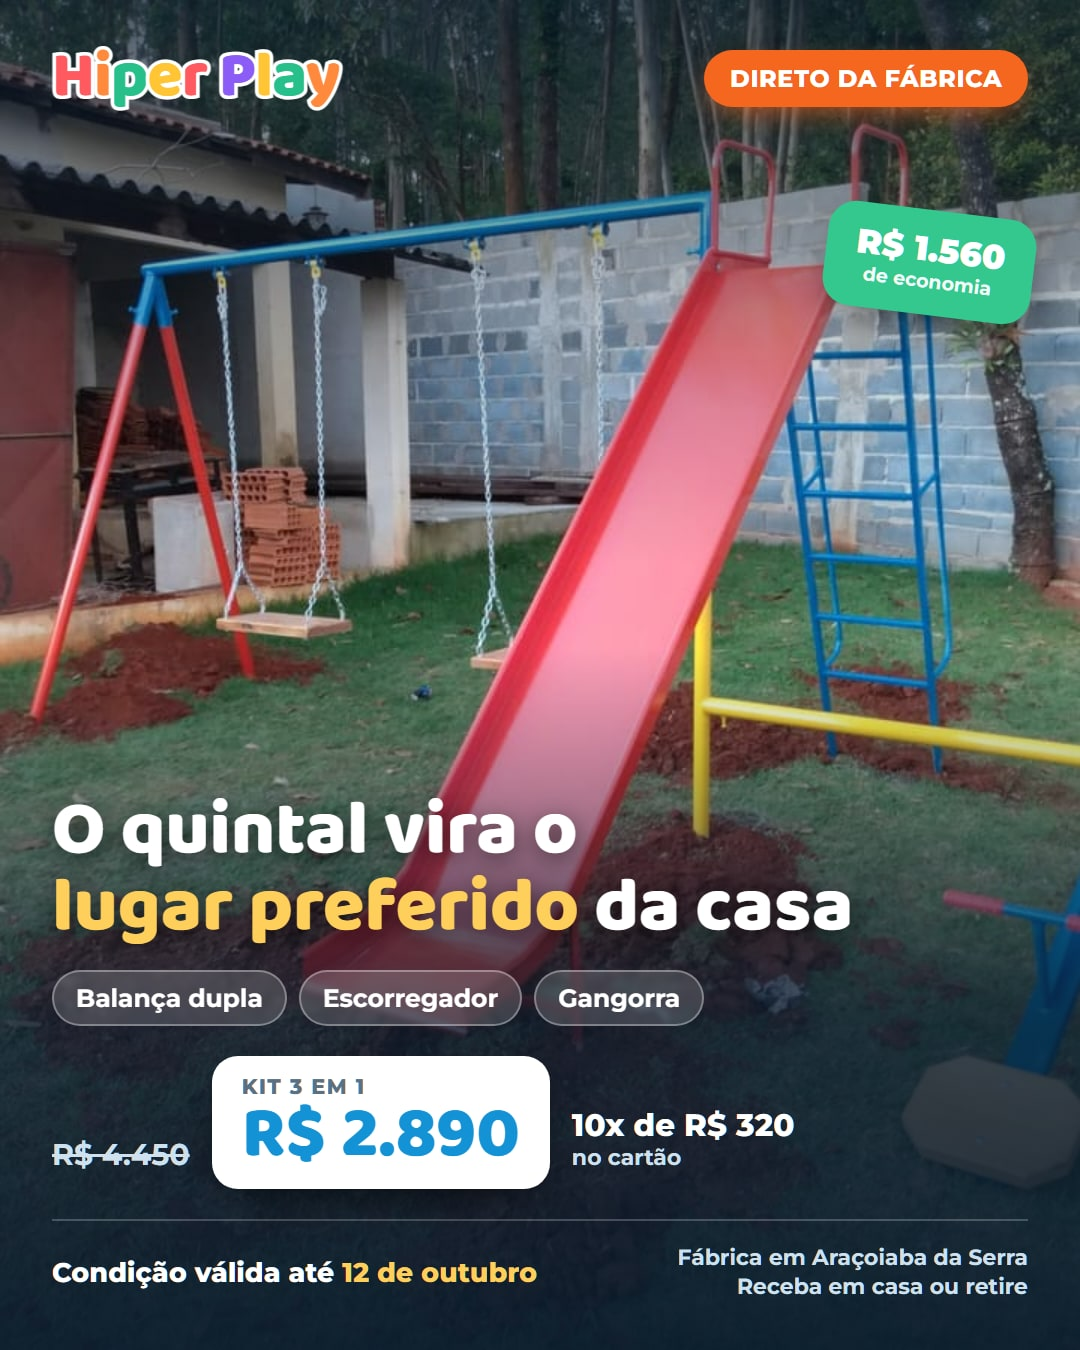
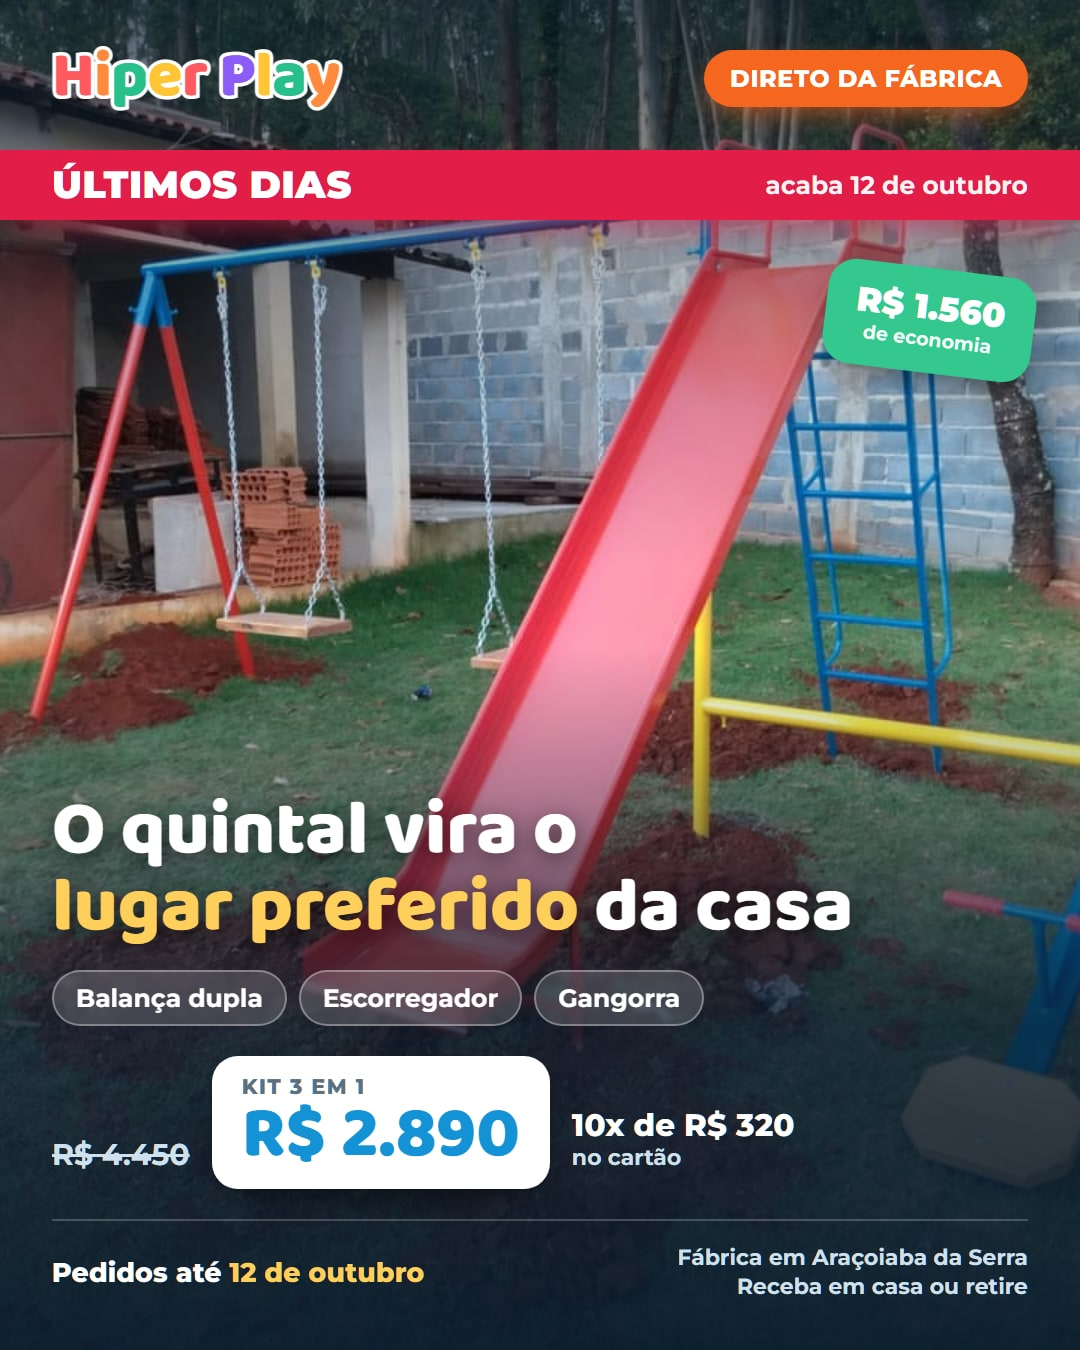
Kit 3 em 1: barra fixa no celular, contagem regressiva e Ref curta (#16)
A campanha de setembro mostrou onde o funil quebra: de 1.641 visitas na
landing, apenas 48 clicaram para falar no WhatsApp (2,9%), e metade desses
nem chegou a enviar a mensagem. O anuncio entregou bem (CTR 2,71%, CPC de
R$ 0,16); a pagina e que nao converte visita em conversa.

Tres mudancas, todas no ponto onde o dado aponta:

1. Barra fixa no celular, no lugar do circulo de 56px. O circulo passava
   despercebido. A barra mantem preco, prazo e as duas acoes (falar e
   calcular frete) sempre visiveis, sem depender de rolagem. No desktop o
   circulo continua, que la o problema nao existe.

2. Contagem regressiva ate 12/10 no topo, no bloco de preco e na barra.
   Conta por dia de calendario, nao por hora, senao "faltam 4 dias" virava
   "3" no meio da tarde. Depois da data, deixa de prometer prazo.

3. Mensagem pre-preenchida mais curta: so "Ref: HP-KIT3-XXXXXX" no lugar de
   "Origem: anuncio Kit 3 em 1 - Ref: ...". O texto longo parecia
   rastreamento e e a suspeita principal dos 24 cliques que abriram o
   WhatsApp e nao enviaram. O produto ja vai no corpo da mensagem, entao a
   SARAH nao perde contexto, e o padrao da Ref que o webhook le nao muda.

Criativo do anuncio ganhou tarja "ULTIMOS DIAS - acaba 12 de outubro". O
anterior rodou 79 mil impressoes e saturou: o CTR caiu de 3,66% para 1,89%
em uma semana, com frequencia em 1,75.

Changed region(s): [[0.0, 0.0933, 1.0, 0.3111], [0.0306, 0.9333, 0.4889, 0.9644]]

diff --git a/kit3em1/index.html b/kit3em1/index.html
@@ -40,6 +40,21 @@
   .floaty{animation:floaty 3.5s ease-in-out infinite}
   .nuvem,.sticker{position:absolute}
   .wfloat{position:fixed;right:18px;bottom:18px;z-index:70;box-shadow:0 14px 30px -10px rgba(37,211,102,.7)}
+  /* Barra fixa no celular. O circulo de 56px passava despercebido: de 1.641 visitas
+     na campanha de setembro, so 48 chegaram ao WhatsApp (2,9%). A barra mantem
+     preco e as duas acoes sempre na tela, sem depender de rolagem. */
+  .barra{position:fixed;left:0;right:0;bottom:0;z-index:80;display:none;gap:10px;align-items:center;
+         padding:10px 12px calc(10px + env(safe-area-inset-bottom,0px));
+         background:rgba(255,255,255,.97);backdrop-filter:blur(8px);
+         border-top:1px solid var(--line);box-shadow:0 -8px 26px -12px rgba(22,50,74,.4)}
+  .barra .pq{flex:none;line-height:1.05}
+  .barra .pq b{display:block;font-size:19px;font-weight:800;color:var(--blue-d)}
+  .barra .pq small{display:block;font-size:10px;font-weight:700;color:var(--orange);margin-top:1px}
+  .barra .acoes{display:flex;gap:8px;flex:1;min-width:0}
+  .barra .acoes button{flex:1;min-width:0;border-radius:14px;font-weight:800;font-size:13.5px;
+         padding:12px 6px;color:#fff;cursor:pointer;white-space:nowrap;border:0;
+         display:inline-flex;align-items:center;justify-content:center;gap:6px}
+  @media (max-width:860px){ .barra{display:flex} .wfloat{display:none} body{padding-bottom:80px} }
   @keyframes pulse{0%,100%{box-shadow:0 14px 30px -8px rgba(37,211,102,.6)}50%{box-shadow:0 16px 40px -6px rgba(37,211,102,.95)}}
   .pulse{animation:pulse 2s ease-in-out infinite}
   @media (prefers-reduced-motion: reduce){ .floaty,.pulse{animation:none} }
@@ -84,7 +99,7 @@
     <div class="grid lg:grid-cols-2 gap-8 items-center">
       <div class="text-center lg:text-left text-white">
         <div class="inline-flex items-center gap-2 chip mb-4 text-white" style="background:var(--orange);box-shadow:0 8px 20px -8px var(--orange)">
-          <i data-lucide="sparkles" style="width:14px;height:14px"></i> Direto da fábrica, até o Dia das Crianças
+          <i data-lucide="sparkles" style="width:14px;height:14px"></i> Direto da fábrica · <span id="contagem">até o Dia das Crianças</span>
         </div>
         <h1 class="brand text-4xl sm:text-6xl font-extrabold leading-tight">O quintal vira o lugar<br class="hidden sm:block"> <span style="color:#ffcf5c">preferido da casa</span></h1>
         <p class="mt-4 text-lg sm:text-xl font-semibold text-white/95">Kit 3 em 1: balança dupla, escorregador e gangorra, tudo acoplado.</p>
@@ -138,7 +153,7 @@
         <p class="flex items-start gap-2"><i data-lucide="check" style="width:18px;height:18px;color:var(--green);flex:none"></i> <span><b>Escorregador</b> acoplado</span></p>
         <p class="flex items-start gap-2"><i data-lucide="check" style="width:18px;height:18px;color:var(--green);flex:none"></i> <span><b>Gangorra</b> no mesmo conjunto</span></p>
         <p class="flex items-start gap-2"><i data-lucide="check" style="width:18px;height:18px;color:var(--green);flex:none"></i> <span>Ferro reforçado, <b>aguenta adulto</b></span></p>
-        <p class="flex items-start gap-2"><i data-lucide="calendar-clock" style="width:18px;height:18px;color:var(--orange);flex:none"></i> <span><b>Condição válida até 12/10</b>, o Dia das Crianças</span></p>
+        <p class="flex items-start gap-2"><i data-lucide="calendar-clock" style="width:18px;height:18px;color:var(--orange);flex:none"></i> <span><b>Condição válida até 12/10</b> <span id="contagem2" style="color:var(--orange);font-weight:800"></span></span></p>
       </div>
     </div>
   </div>
@@ -299,6 +314,21 @@
 <button onclick="falarWhats('flutuante')" class="wfloat w-14 h-14 rounded-full grid place-items-center text-white floaty" style="background:var(--wpp)" title="WhatsApp" aria-label="WhatsApp">
   <svg viewBox="0 0 24 24" fill="currentColor" style="width:28px;height:28px"><path d="M.057 24l1.687-6.163a11.867 11.867 0 01-1.587-5.945C.16 5.335 5.495 0 12.05 0a11.817 11.817 0 018.413 3.488 11.824 11.824 0 013.48 8.414c-.003 6.557-5.338 11.892-11.893 11.892a11.9 11.9 0 01-5.688-1.448L.057 24zm6.597-3.807c1.676.995 3.276 1.591 5.392 1.592 5.448 0 9.886-4.434 9.889-9.885.002-5.462-4.415-9.89-9.881-9.892-5.452 0-9.887 4.434-9.889 9.884a9.86 9.86 0 001.51 5.26l-.999 3.648 3.978-1.042zm11.387-5.464c-.074-.124-.272-.198-.57-.347-.297-.149-1.758-.868-2.031-.967-.272-.099-.47-.149-.669.149-.198.297-.768.967-.941 1.165-.173.198-.347.223-.644.074-.297-.149-1.255-.462-2.39-1.475-.883-.788-1.48-1.761-1.653-2.059-.173-.297-.018-.458.13-.606.134-.133.297-.347.446-.521.151-.172.2-.296.3-.495.099-.198.05-.372-.025-.521-.075-.148-.669-1.611-.916-2.206-.242-.579-.487-.501-.669-.51l-.57-.01c-.198 0-.52.074-.792.372-.272.297-1.04 1.016-1.04 2.479 0 1.462 1.065 2.875 1.213 3.074.149.198 2.096 3.2 5.077 4.487.709.306 1.263.489 1.694.626.712.226 1.36.194 1.872.118.571-.085 1.758-.719 2.006-1.413.248-.694.248-1.289.173-1.413z"/></svg>
 </button>
+
+<!-- BARRA FIXA (celular) -->
+<div class="barra" role="region" aria-label="Comprar ou falar no WhatsApp">
+  <div class="pq">
+    <b>R$ 2.890</b>
+    <small id="barra_prazo">até 12/10</small>
+  </div>
+  <div class="acoes">
+    <button onclick="falarWhats('barra')" style="background:var(--wpp)">
+      <svg viewBox="0 0 24 24" fill="currentColor" style="width:17px;height:17px;flex:none"><path d="M.057 24l1.687-6.163a11.867 11.867 0 01-1.587-5.945C.16 5.335 5.495 0 12.05 0a11.817 11.817 0 018.413 3.488 11.824 11.824 0 013.48 8.414c-.003 6.557-5.338 11.892-11.893 11.892a11.9 11.9 0 01-5.688-1.448L.057 24zm6.597-3.807c1.676.995 3.276 1.591 5.392 1.592 5.448 0 9.886-4.434 9.889-9.885.002-5.462-4.415-9.89-9.881-9.892-5.452 0-9.887 4.434-9.889 9.884a9.86 9.86 0 001.51 5.26l-.999 3.648 3.978-1.042z"/></svg>
+      Falar agora
+    </button>
+    <button onclick="abrirCompra()" style="background:var(--orange)">Calcular frete</button>
+  </div>
+</div>
 
 <!-- MODAL DE COMPRA -->
 <div id="modal" role="dialog" aria-modal="true" aria-label="Comprar Kit 3 em 1">
@@ -485,7 +515,7 @@ function enviarPedido(forma){
     `*Endereço:* ${endereco}${p.cep?' - CEP '+p.cep:''}`,
     p.km!=null?`*Distância da fábrica:* ${Math.round(p.km)} km`:null,
     '',
-    `_Origem: anuncio Kit 3 em 1 • Ref: ${comCodigo('HP-KIT3')}_`
+    `_Ref: ${comCodigo('HP-KIT3')}_`
   ].filter(l=>l!==null);
   window.open('https://wa.me/'+WPP+'?text='+encodeURIComponent(linhas.join('\n')),'_blank');
 }
@@ -508,12 +538,27 @@ const MENSAGENS={
   entrega:'Olá! Quero o *Kit 3 em 1* e gostaria de saber o *prazo e o frete* para a minha cidade.',
   rodape:'Olá! Quero garantir o *Kit 3 em 1* na condição do Dia das Crianças.',
   faq:'Olá! Tenho uma dúvida sobre o *Kit 3 em 1*.',
-  flutuante:'Olá! Vi o *Kit 3 em 1* e quero mais informações.'
+  flutuante:'Olá! Vi o *Kit 3 em 1* e quero mais informações.',
+  barra:'Olá! Quero o *Kit 3 em 1* por *R$ 2.890*. Ainda dá tempo?'
 };
+
+/* Contagem regressiva ate 12/10. A urgencia e real: a condicao expira na data.
+   Conta por dia de calendario, nao por hora, senao "faltam 4 dias" vira "3" a tarde. */
+(function contagem(){
+  const hoje=new Date(); hoje.setHours(0,0,0,0);
+  const dias=Math.round((new Date(2026,9,12)-hoje)/86400000);
+  const txt = dias>1 ? `faltam ${dias} dias` : dias===1 ? 'último dia' : dias===0 ? 'último dia' : 'condição encerrada';
+  const por=(id,v)=>{const e=document.getElementById(id); if(e) e.textContent=v;};
+  por('contagem', txt);
+  por('contagem2', dias>=0?'· '+txt:'');
+  por('barra_prazo', dias>=0?txt:'consulte');
+})();
 function falarWhats(origem){
   const ref=comCodigo('HP-KIT3');
   const base=MENSAGENS[origem]||MENSAGENS.rodape;
-  const msg=encodeURIComponent(base+'\n\n_Origem: anuncio Kit 3 em 1 • Ref: '+ref+'_');
+  // Ref curta de proposito: o texto longo de origem parecia rastreamento e o
+  // cliente apagava a mensagem antes de enviar. O produto ja vai no corpo.
+  const msg=encodeURIComponent(base+'\n\n_Ref: '+ref+'_');
   window.open('https://wa.me/'+WPP+'?text='+msg,'_blank');
 }
 

diff --git a/kit3em1/arte/anuncio.html b/kit3em1/arte/anuncio.html
@@ -29,8 +29,16 @@
   .selo-fab{background:var(--orange);color:#fff;font-size:24px;font-weight:800;padding:14px 26px;border-radius:999px;
             letter-spacing:.5px;box-shadow:0 12px 30px -10px rgba(245,102,30,.8)}
 
+  /* Tarja de urgencia: o criativo anterior rodou 79 mil impressoes e o CTR caiu
+     de 3,66% para 1,89%. A contagem e o motivo novo para clicar. */
+  .urgencia{position:absolute;top:150px;left:0;right:0;background:#e11d48;color:#fff;
+            padding:16px 52px;display:flex;align-items:center;justify-content:space-between;
+            box-shadow:0 14px 34px -12px rgba(225,29,72,.75)}
+  .urgencia b{font-size:38px;font-weight:900;letter-spacing:.5px;line-height:1}
+  .urgencia span{font-size:25px;font-weight:700;opacity:.95}
+
   /* Selo de economia, girado, como adesivo */
-  .adesivo{position:absolute;top:210px;right:46px;background:var(--green);color:#fff;border-radius:28px;
+  .adesivo{position:absolute;top:268px;right:46px;background:var(--green);color:#fff;border-radius:28px;
            padding:22px 30px;transform:rotate(7deg);text-align:center;box-shadow:0 18px 40px -14px rgba(0,0,0,.6)}
   .adesivo b{display:block;font-size:34px;line-height:1;font-weight:900}
   .adesivo small{display:block;font-size:19px;font-weight:700;opacity:.95;margin-top:4px}
@@ -71,6 +79,11 @@
     <div class="selo-fab">DIRETO DA FÁBRICA</div>
   </div>
 
+  <div class="urgencia">
+    <b>ÚLTIMOS DIAS</b>
+    <span>acaba 12 de outubro</span>
+  </div>
+
   <div class="adesivo">
     <b>R$ 1.560</b>
     <small>de economia</small>
@@ -92,7 +105,7 @@
     </div>
 
     <div class="rodape">
-      <div class="prazo">Condição válida até <span>12 de outubro</span></div>
+      <div class="prazo">Pedidos até <span>12 de outubro</span></div>
       <div class="local">Fábrica em Araçoiaba da Serra<br>Receba em casa ou retire</div>
     </div>
   </div>
